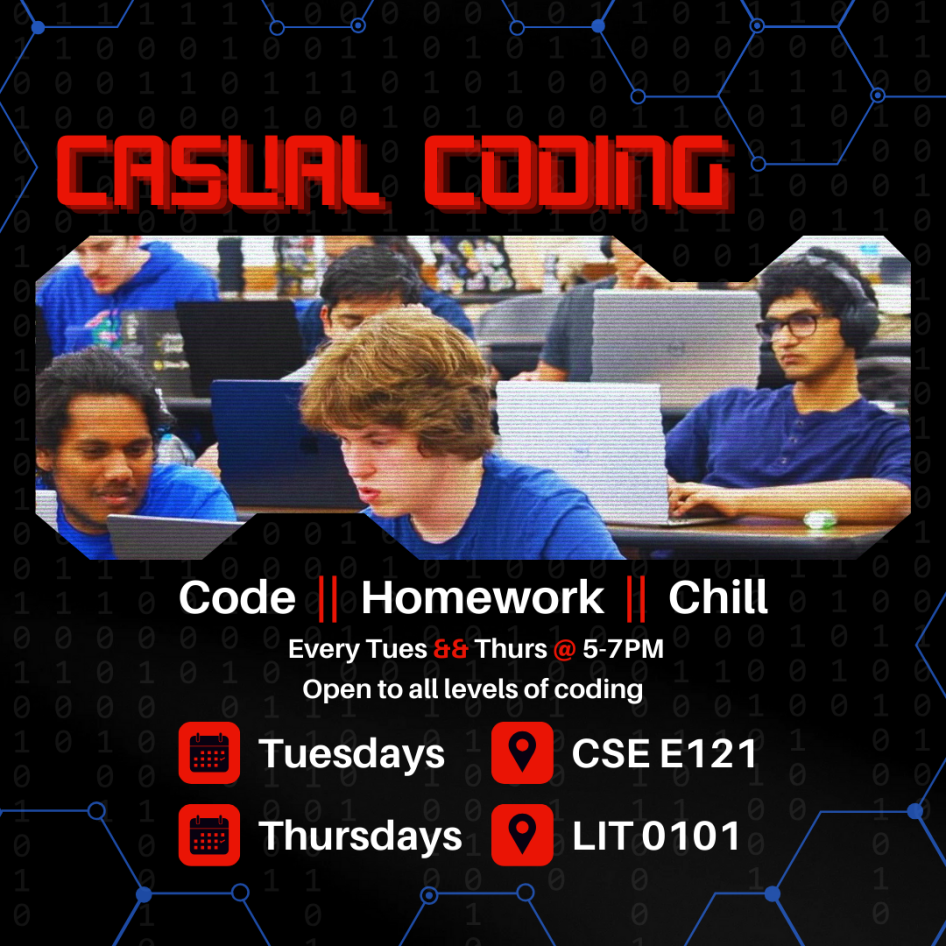
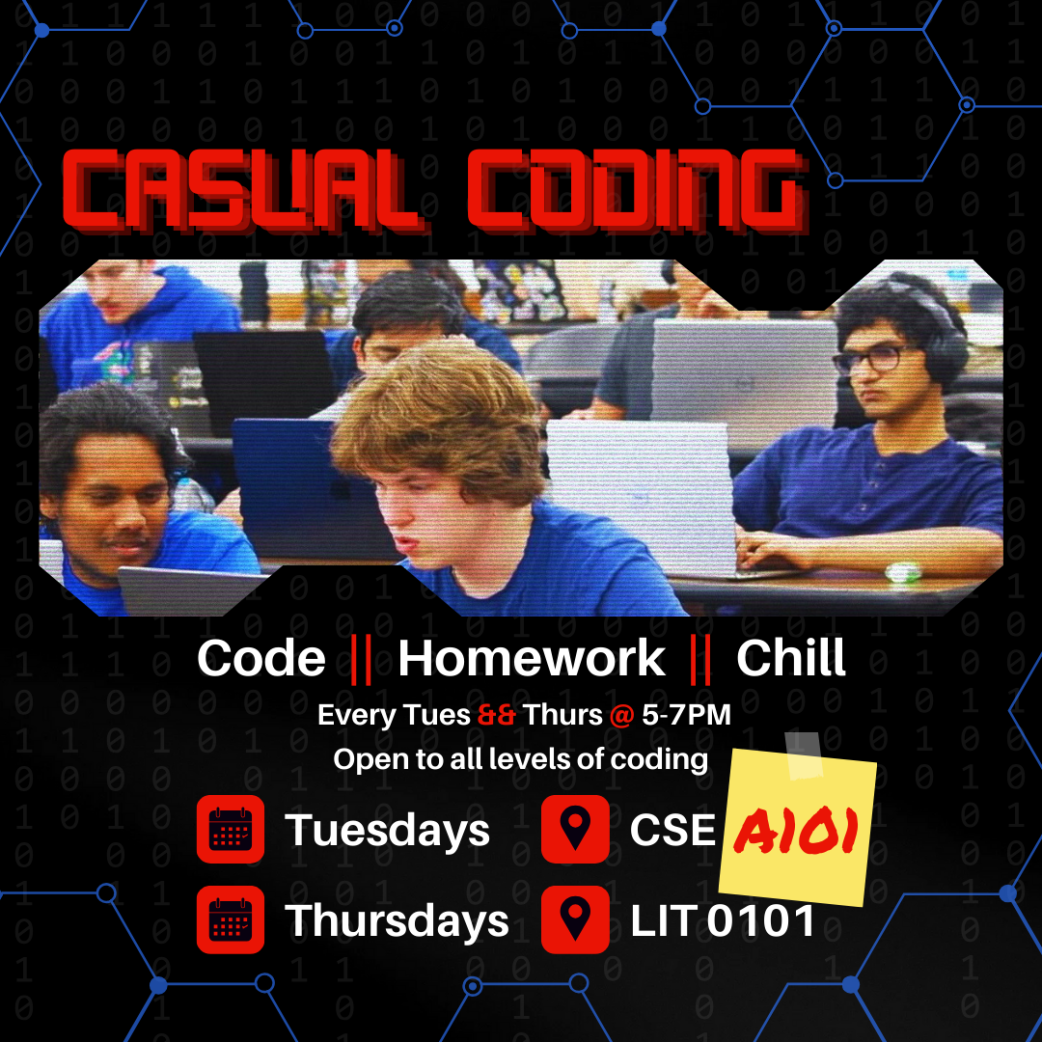
docs: update cc location and add artists to BoL page

Changed region(s): [[0.6744, 0.7051, 0.8584, 0.889], [0.5518, 0.8277, 0.5825, 0.8584], [0.2146, 0.8277, 0.2452, 0.8584]]

diff --git a/src/content/2024-09-03-fall-casual-coding.md b/src/content/2024-09-03-fall-casual-coding.md
@@ -4,9 +4,9 @@ date: "2024-09-03"
 title: "Fall 2024 Casual Coding"
 author: ["Daniel Wildsmith"]
 featuredImage: ../images/blog/2024-09-04-fall-casual-coding.webp
-subtitle: 5-7PM Tuesdays @ CSE E121 & Thursdays @ LIT0101
+subtitle: 5-7PM Tuesdays @ CSE A101 & Thursdays @ LIT0101
 ---
-Open Source Club will meet for casual coding twice a week at 5-7PM, every Tuesday and Thursday. Tuesday meetings will be held in CSE E121, and Thursday meetings will be held in LIT0101.
+Open Source Club will meet for casual coding twice a week at 5-7PM, every Tuesday and Thursday. Tuesday meetings will be held in CSE A101, and Thursday meetings will be held in LIT0101.
 
 Casual coding (CC) is when the club meets to collaborate on open source projects. During CC, members typically work with tech leads on club-led projects, do homework, or just hang out with others. Participation is non-committal, doesn't require applications/invitations or strict time requirements, and is open to everyone.
 
